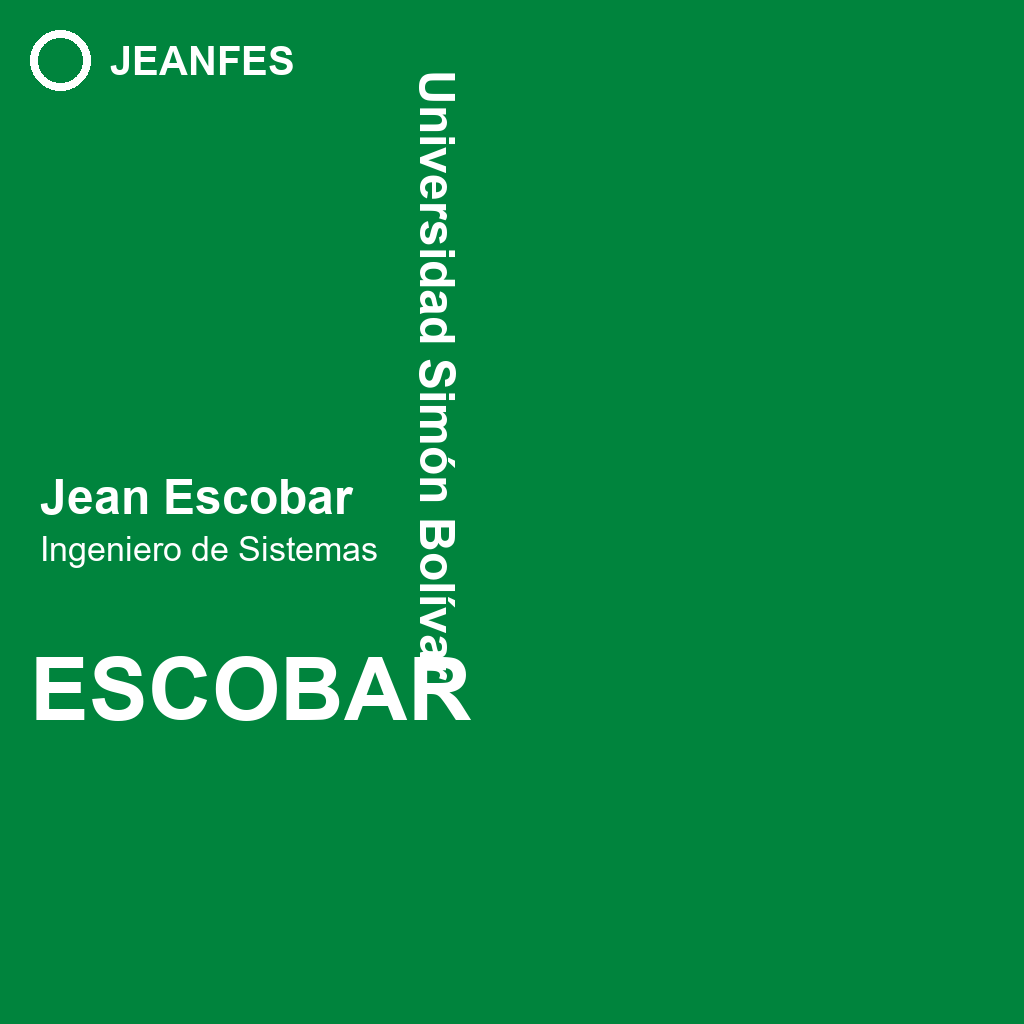
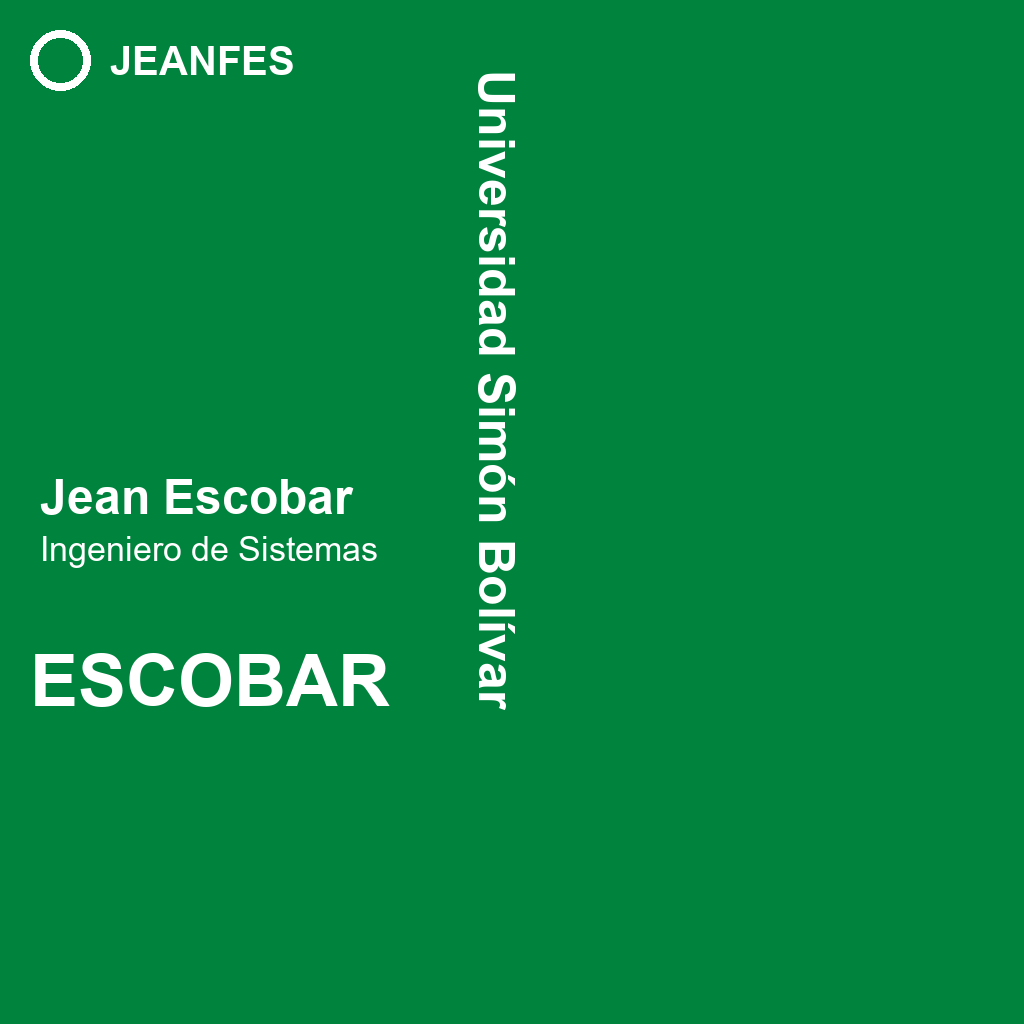
fix(clients): keep badge company name from overlapping the left column
Move the vertical company name to its own column and shrink left-column
text to fit within it.

Changed region(s): [[0.0312, 0.0625, 0.5, 0.7188]]

diff --git a/scripts/generate-badge-textures.py b/scripts/generate-badge-textures.py
@@ -21,6 +21,19 @@ def font(path, size):
     return ImageFont.truetype(path, size)
 
 
+# Only the left ~600px of the texture is visible on the card; the vertical
+# company name sits at NAME_X, so the left column must stay under LEFT_MAX_W.
+NAME_X = 490
+LEFT_MAX_W = 360
+
+
+def fit(d, text, path, size, max_w):
+    f = font(path, size)
+    while d.textlength(text, font=f) > max_w and f.size > 12:
+        f = font(path, f.size - 2)
+    return f
+
+
 def draw_tag(name, bg, ink, company, role):
     S = 1024
     im = Image.new('RGB', (S, S), bg)
@@ -31,22 +44,19 @@ def draw_tag(name, bg, ink, company, role):
     d.text((110, 38), 'JEANFES', font=font(FONT_BOLD, 40), fill=ink)
 
     # Vertical company name along the center strip (text reads top -> bottom)
-    f = font(FONT_BOLD, 96)
-    max_w = 640
-    while d.textlength(company, font=f) > max_w:
-        f = font(FONT_BOLD, f.size - 4)
+    f = fit(d, company, FONT_BOLD, 96, 640)
     tw = int(d.textlength(company, font=f))
     layer = Image.new('RGBA', (tw + 20, f.size + 40), (0, 0, 0, 0))
     ImageDraw.Draw(layer).text((10, 10), company, font=f, fill=ink)
     layer = layer.rotate(-90, expand=True)
-    im.paste(layer, (430 - layer.width // 2, 60), layer)
+    im.paste(layer, (NAME_X - layer.width // 2, 60), layer)
 
     # Name / role block, left-middle
-    d.text((40, 470), 'Jean Escobar', font=font(FONT_BOLD, 48), fill=ink)
-    d.text((40, 530), role, font=font(FONT_REG, 34), fill=ink)
+    d.text((40, 470), 'Jean Escobar', font=fit(d, 'Jean Escobar', FONT_BOLD, 48, LEFT_MAX_W), fill=ink)
+    d.text((40, 530), role, font=fit(d, role, FONT_REG, 34, LEFT_MAX_W), fill=ink)
 
     # Big word bottom-left
-    d.text((30, 640), 'ESCOBAR', font=font(FONT_BOLD, 88), fill=ink)
+    d.text((30, 640), 'ESCOBAR', font=fit(d, 'ESCOBAR', FONT_BOLD, 88, LEFT_MAX_W), fill=ink)
 
     im.save(f'public/model/Tag{name}.png')
 
